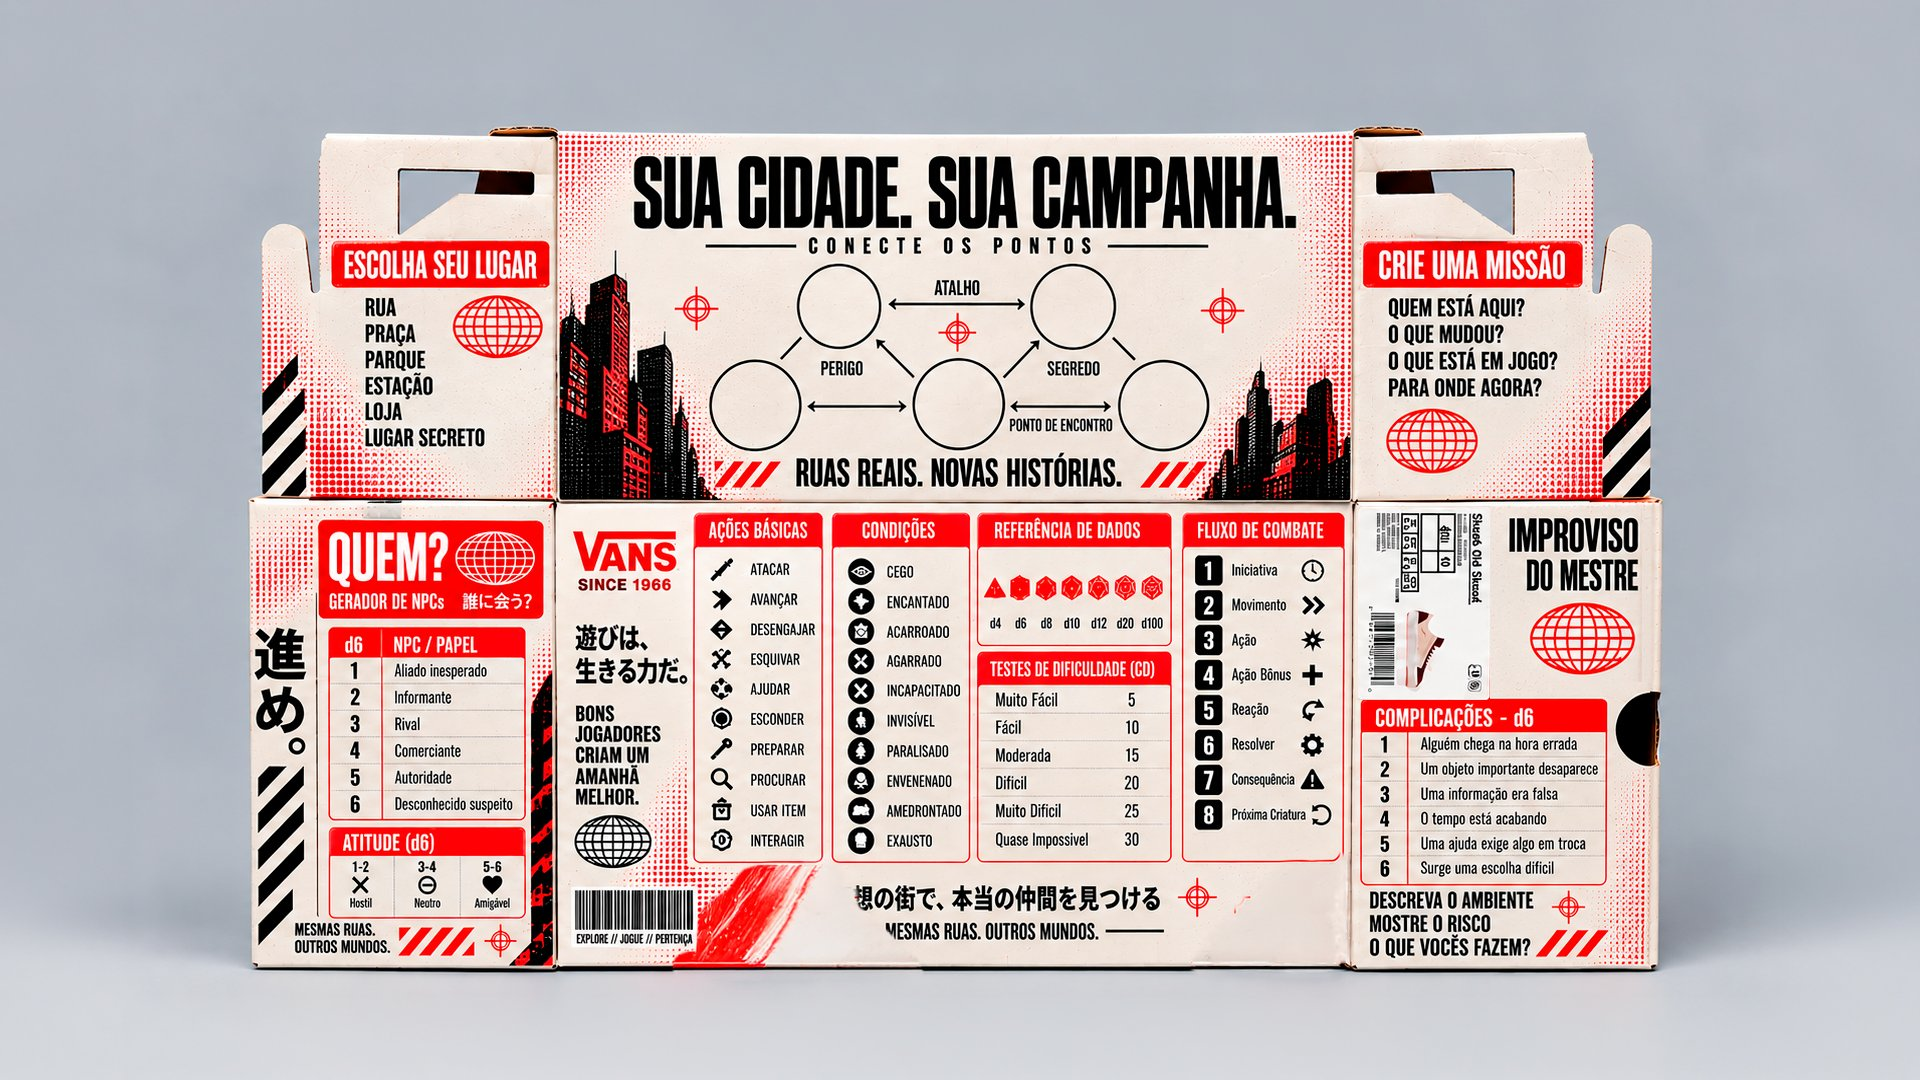
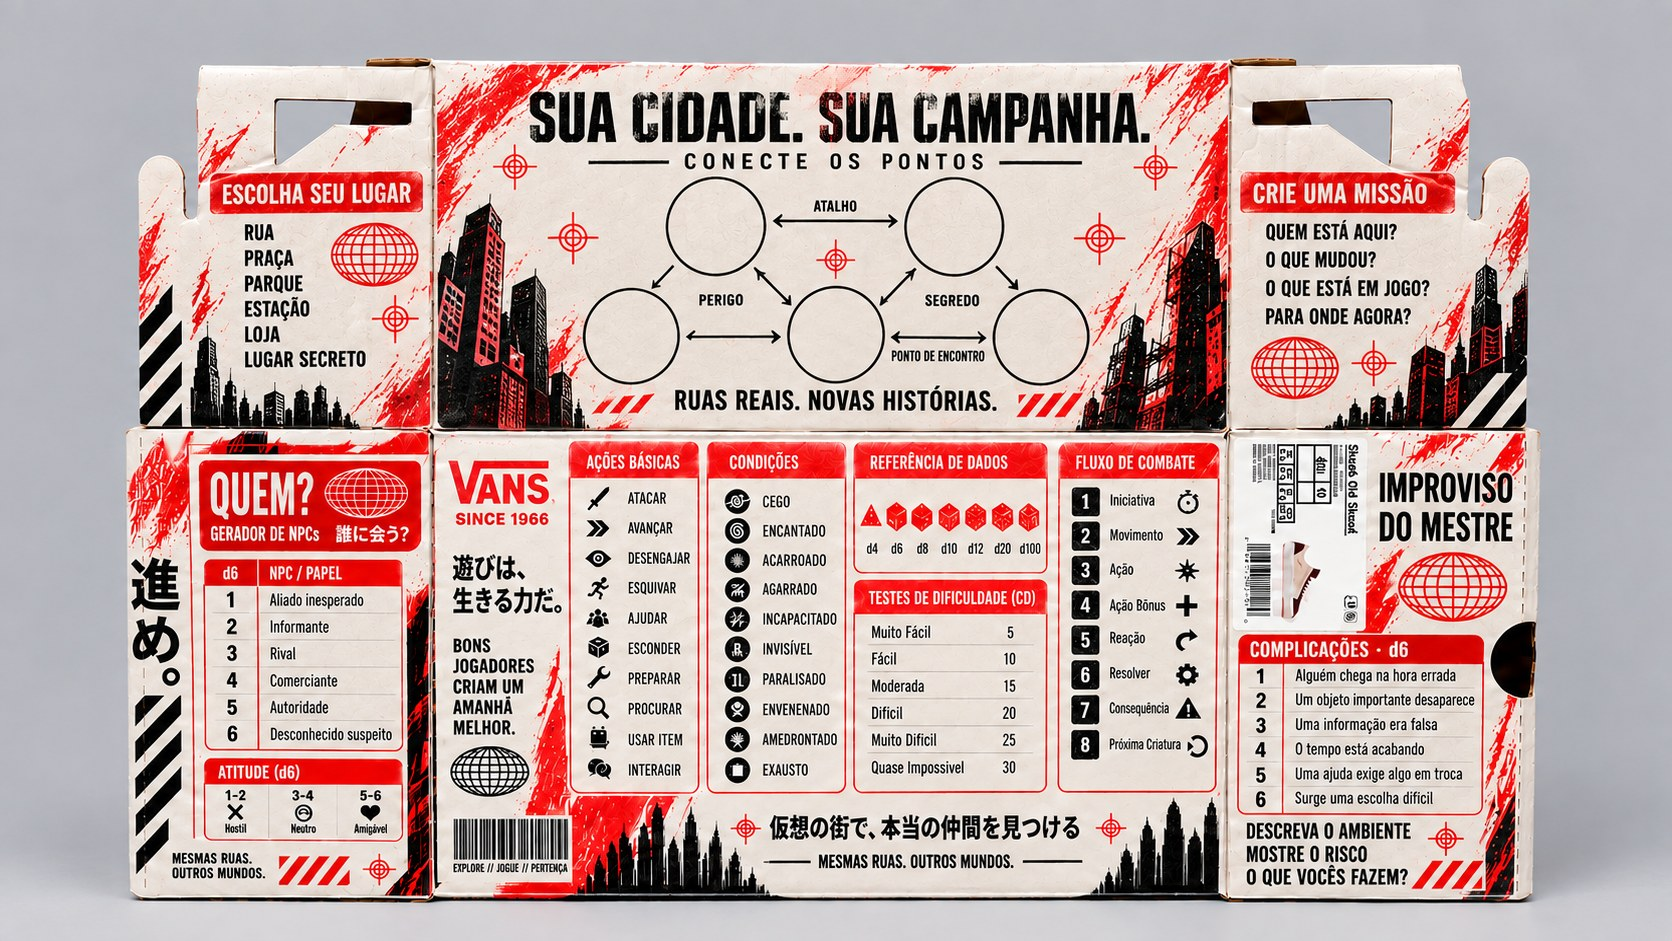
Vans RPG: escudo do mestre (lado do mestre) com a foto correta
Claude-Session: https://claude.ai/code/session_01HMDygkXtzgkiTePP1PyLeF

diff --git a/vans-rpg/index.html b/vans-rpg/index.html
@@ -336,7 +336,7 @@ h3.sub::before{content:"";width:28px;height:1px;background:var(--red)}
 <div class="copy reveal"><p>Aberta, a caixa vira o escudo. Por fora, a arte e o selo para a mesa. Do lado do mestre, é onde aparece tudo o que ele precisa: regras, tabelas e o mapa da cidade.</p></div>
 <div class="shields">
 <figure class="shield reveal"><img loading="lazy" src="../assets/vans-rpg/escudo-frente.jpg" width="1920" height="1080" alt="Escudo do mestre visto de frente: caixa aberta com a arte do KV e o selo OFF THE MAP"><figcaption>Frente · o que a mesa vê</figcaption></figure>
-<figure class="shield reveal"><img loading="lazy" src="../assets/vans-rpg/escudo-costas.jpg" width="1920" height="1080" alt="Escudo do mestre visto de costas: o lado do mestre com regras, tabelas e Sua cidade. Sua campanha."><figcaption>Costas · o lado do mestre, com as regras</figcaption></figure>
+<figure class="shield reveal"><img loading="lazy" src="../assets/vans-rpg/escudo-costas.jpg?v=2" width="1672" height="941" alt="Escudo do mestre visto de costas: o lado do mestre com regras, tabelas e Sua cidade. Sua campanha."><figcaption>Costas · o lado do mestre, com as regras</figcaption></figure>
 </div>
 <h3 class="sub reveal">A carta que vem junto</h3>
 <div class="copy reveal"><p>Dentro da caixa vem o Arquivo do mestre: um envelope preto com a carta de boas-vindas, que abre a aventura no Distrito Zero.</p></div>
